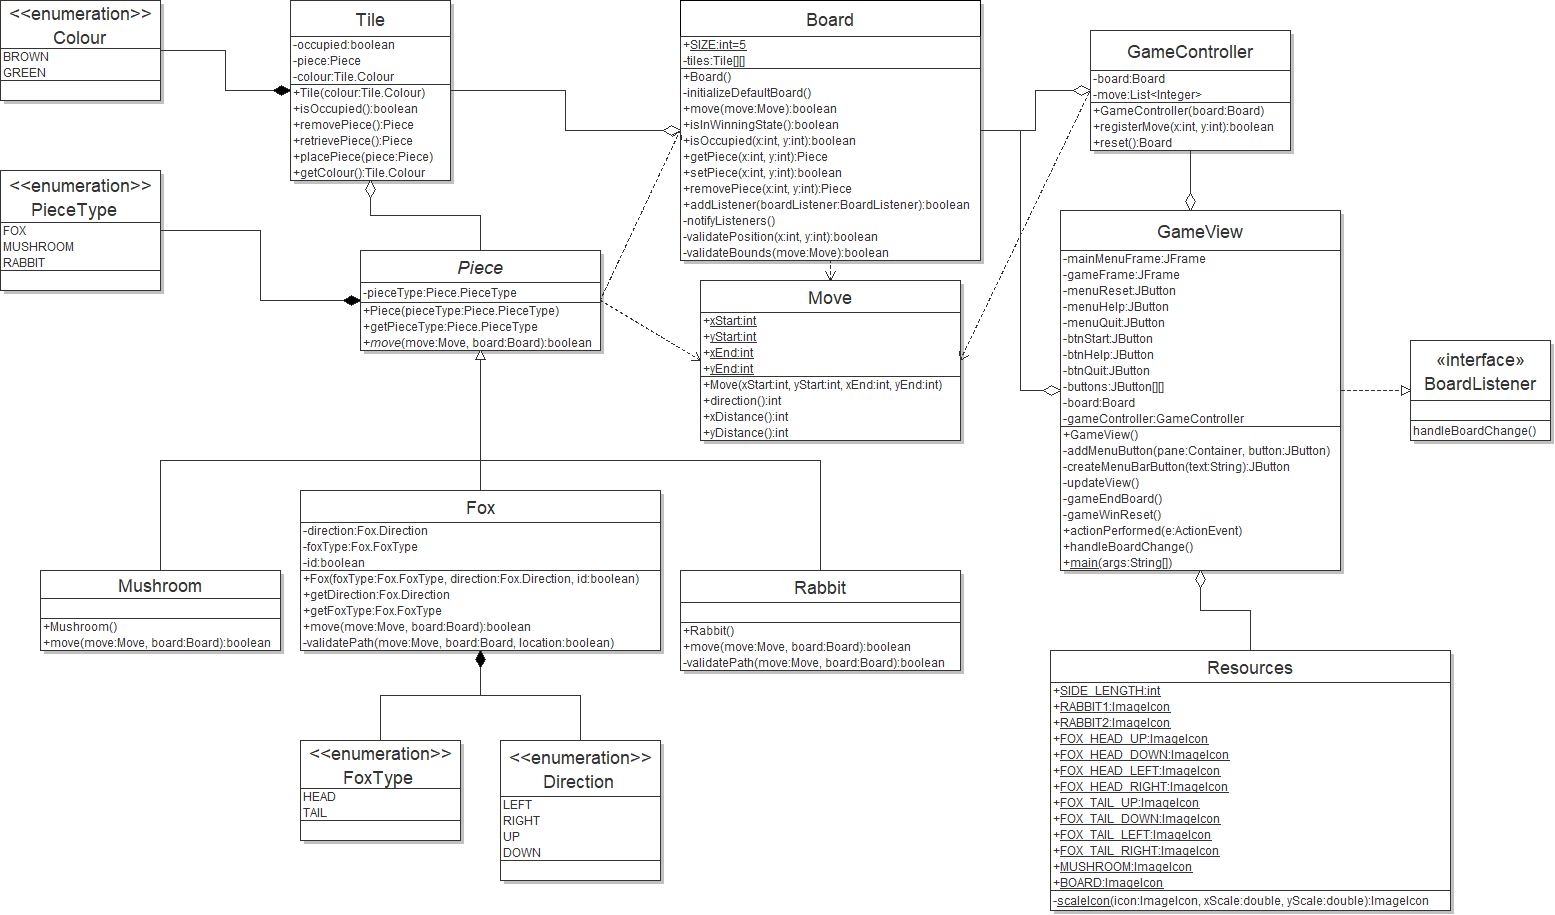
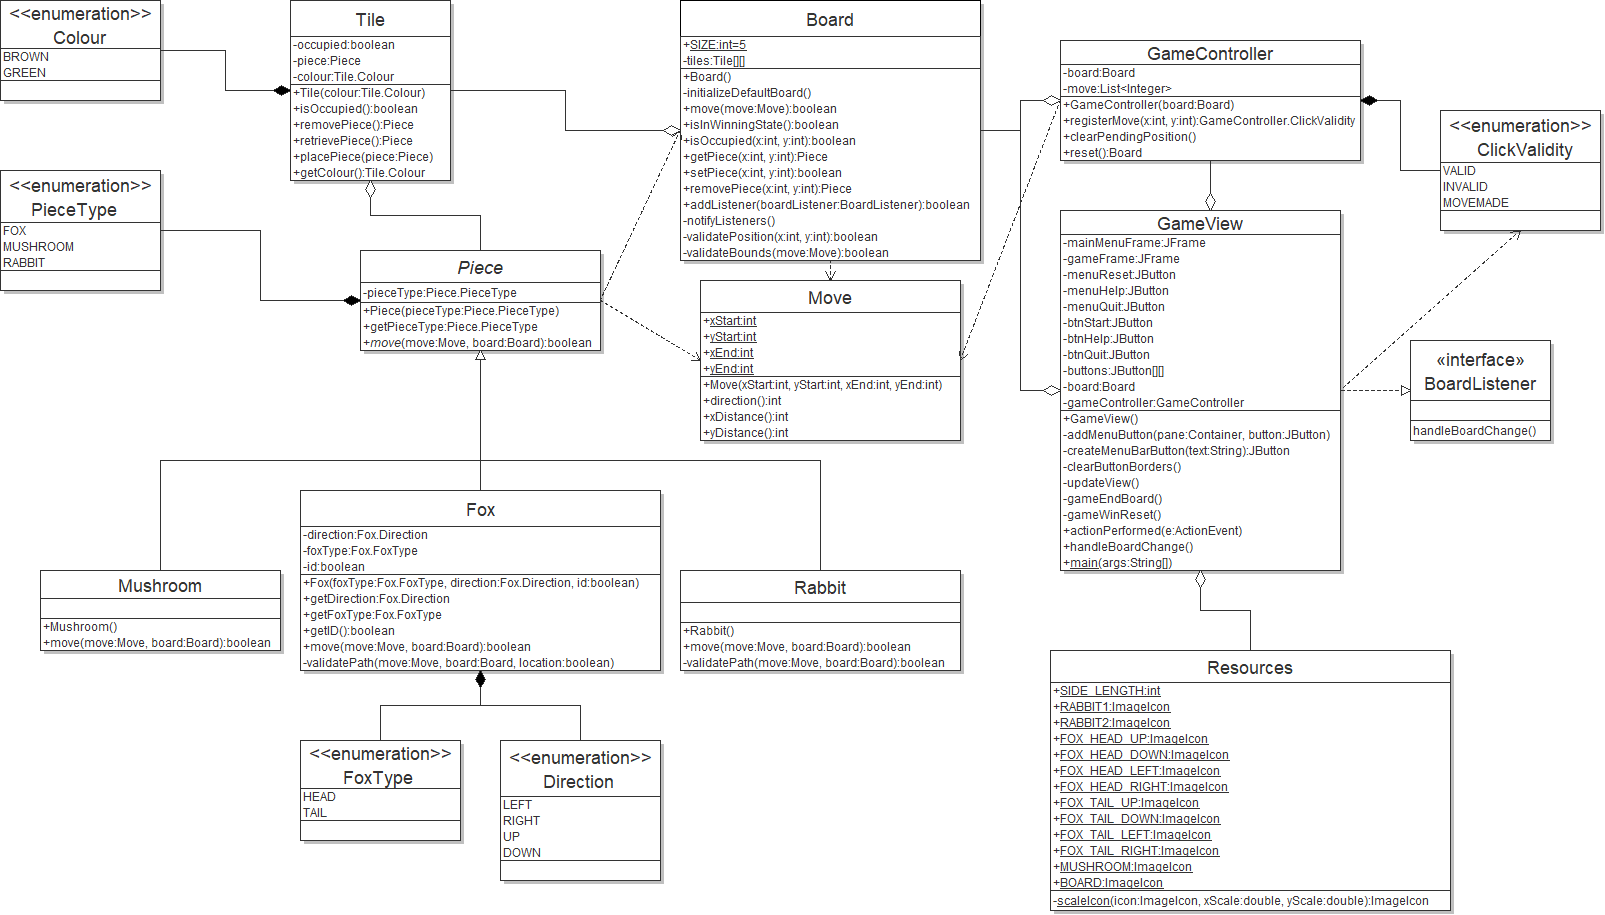
Allow current move to be highlighted

diff --git a/src/main/java/view/GameView.java b/src/main/java/view/GameView.java
@@ -1,6 +1,7 @@
 package view;
 
 import java.awt.BorderLayout;
+import java.awt.Color;
 import java.awt.Component;
 import java.awt.Container;
 import java.awt.Dimension;
@@ -20,8 +21,11 @@ import javax.swing.JOptionPane;
 import javax.swing.KeyStroke;
 import javax.swing.SwingUtilities;
 import javax.swing.UIManager;
+import javax.swing.border.BevelBorder;
+import javax.swing.plaf.ColorUIResource;
 
 import controller.GameController;
+import controller.GameController.ClickValidity;
 import model.Board;
 import model.BoardListener;
 import model.Fox;
@@ -61,13 +65,13 @@ public class GameView implements BoardListener, ActionListener {
 	 * Creates the application GUI.
 	 */
 	public GameView() {
-		// Forces the look and feel of the application to remain consistent across
-		// platforms
+		// Forces the look and feel of the application to remain consistent across platforms
 		try {
 			UIManager.setLookAndFeel(UIManager.getCrossPlatformLookAndFeelClassName());
 		} catch (Exception e) {
 			e.printStackTrace(System.out);
 		}
+		UIManager.getLookAndFeelDefaults().put("Button.focus", new ColorUIResource(new Color(0, 0, 0, 0))); // Removes focus border from all buttons
 
 		/**
 		 * 
@@ -135,8 +139,7 @@ public class GameView implements BoardListener, ActionListener {
 				// Clear button default colours and make it transparent
 				buttons[j][i].setOpaque(false);
 				buttons[j][i].setContentAreaFilled(false);
-				buttons[j][i].setFocusPainted(false);
-				buttons[j][i].setBorderPainted(false);
+				
 				boardLabel.add(buttons[j][i]);
 
 				// Register an anonymous listener on the button which notifies the controller
@@ -144,10 +147,25 @@ public class GameView implements BoardListener, ActionListener {
 				final int x = j;
 				final int y = i;
 				buttons[j][i].addActionListener(e -> {
-					gameController.registerMove(x, y);
+					ClickValidity clickResult = gameController.registerClick(x, y);
+					if (clickResult.equals(ClickValidity.VALID)) {
+						buttons[x][y].setBorder(new BevelBorder(BevelBorder.RAISED, Color.RED, Color.RED));
+					} else if (clickResult.equals(ClickValidity.MOVEMADE)) {
+						clearButtonBorders();
+					}
 				});
 			}
 		}
+
+		// Configure the escape key to cancel the pending move
+		boardLabel.getInputMap(JComponent.WHEN_IN_FOCUSED_WINDOW).put(KeyStroke.getKeyStroke("ESCAPE"), "clear");
+		boardLabel.getActionMap().put("clear", new AbstractAction() {
+			@Override
+			public void actionPerformed(ActionEvent e) {
+				clearButtonBorders();
+				gameController.clearPendingPosition();
+			}
+		});
 
 		updateView();
 
@@ -184,21 +202,28 @@ public class GameView implements BoardListener, ActionListener {
 	 */
 	private JButton createMenuBarButton(String text) {
 		JButton button = new JButton("<html><p style='text-align:center;'>" + text + "</p></html>");
-		button.setFocusPainted(false);
-		button.setOpaque(false);
 		button.setContentAreaFilled(false);
+		button.setOpaque(false);
 		button.setBorderPainted(false);
-		button.getInputMap(JComponent.WHEN_IN_FOCUSED_WINDOW)
-				.put(KeyStroke.getKeyStroke(Character.toLowerCase(text.charAt(0))), text);
+		button.getInputMap(JComponent.WHEN_IN_FOCUSED_WINDOW).put(KeyStroke.getKeyStroke(Character.toLowerCase(text.charAt(0))), text);
 		button.getActionMap().put(text, new AbstractAction() {
-			private static final long serialVersionUID = -3061675265827831267L;
-
 			@Override
 			public void actionPerformed(ActionEvent e) {
 				button.doClick();
 			}
 		});
 		return button;
+	}
+
+	/**
+	 * Clears the bevels on all buttons.
+	 */
+	private void clearButtonBorders() {
+		for (int i = 0; i < Board.SIZE; i++) {
+			for (int j = 0; j < Board.SIZE; j++) {
+				buttons[i][j].setBorder(UIManager.getBorder("Button.border"));
+			}
+		}
 	}
 
 	/**
@@ -279,9 +304,13 @@ public class GameView implements BoardListener, ActionListener {
 	 */
 	@Override
 	public void actionPerformed(ActionEvent e) {
-		if (e.getSource() == btnHelp || e.getSource() == menuHelp) {
-			JOptionPane.showMessageDialog(null, "Start (s): Starts the game. \n" + "Reset (r): Restarts the game. \n"
-					+ "Quit (q): Exits the application", "Help", JOptionPane.INFORMATION_MESSAGE);
+		if (e.getSource() == btnHelp) {
+			JOptionPane.showMessageDialog(null, "Start: Starts the game\n" + "Help: Displays the help menu\n"
+					+ "Quit: Exits the application", "Help", JOptionPane.INFORMATION_MESSAGE);
+		} else if (e.getSource() == menuHelp) {
+			JOptionPane.showMessageDialog(null, "Reset (r): Restarts the game\n"
+					+ "Help (h): Displays the help menu\n" + "Quit (q): Exits the application\n"
+					+ "Escape (ESC): Clears the pending move", "Help", JOptionPane.INFORMATION_MESSAGE);
 		} else if (e.getSource() == btnQuit || e.getSource() == menuQuit) {
 			if (JOptionPane.showConfirmDialog(null, "Are you sure you want to exit?", "Exit Rabbit and Foxes!",
 					JOptionPane.YES_NO_OPTION) == JOptionPane.YES_OPTION)
@@ -304,7 +333,7 @@ public class GameView implements BoardListener, ActionListener {
 		updateView();
 		if (board.isInWinningState()) {
 			gameEndBoard(false);
-			JOptionPane.showMessageDialog(null, "Congrats! You win!");
+			JOptionPane.showMessageDialog(null, "Congrats! You win!", "Game over!", JOptionPane.INFORMATION_MESSAGE);
 			gameWinReset();
 		}
 	}

diff --git a/src/main/java/controller/GameController.java b/src/main/java/controller/GameController.java
@@ -4,6 +4,7 @@ import java.util.ArrayList;
 import java.util.List;
 
 import model.Board;
+import model.Fox;
 import model.Move;
 import model.Mushroom;
 
@@ -21,12 +22,16 @@ public class GameController {
 	private Board board;
 	private List<Integer> move;
 
+	public enum ClickValidity {
+		VALID, INVALID, MOVEMADE
+	}
+
 	/**
-	 * The constructor for this classes uses a board that has been inputed by the
-	 * view(the board listener) so that it can request the model to update it. This
+	 * The constructor for this classes uses a board that has been inputted by the
+	 * view (the board listener) so that it can request the model to update it. This
 	 * will ensure all three components of the MVC will be using the same board.
 	 * 
-	 * @param board
+	 * @param board The Board (model) that this controller should update
 	 */
 	public GameController(Board board) {
 		this.board = board;
@@ -34,7 +39,7 @@ public class GameController {
 	}
 
 	/**
-	 * This method is used to register the move based on the user input. It first
+	 * This method is used to register a click based on the user input. It first
 	 * checks if the button selected by the user contains an object that is not a
 	 * mushroom. If that is satisfied it adds the move to a list. When the second
 	 * move is made the method uses the original move as well as the new move to
@@ -43,19 +48,26 @@ public class GameController {
 	 * 
 	 * @param x - Represents the start of the end x value of the user's move
 	 * @param y - Represents the start of the end y value of the user's move
-	 * @return - Returns True if the move has been successful otherwise will return
-	 *         false
+	 * @return - True if the selected location is valid, false if it is the first move being made on the board or if the selected location is valid
 	 */
-	public boolean registerMove(int x, int y) {
+	public ClickValidity registerClick(int x, int y) {
 		if (move.isEmpty() && board.isOccupied(x, y) && !(board.getPiece(x, y) instanceof Mushroom)) {
 			move.add(x);
 			move.add(y);
-		} else if (!move.isEmpty()) {
-			boolean result = board.move(new Move(move.get(0), move.get(1), x, y));
+			return ClickValidity.VALID;
+		} else if (!move.isEmpty() && (!board.isOccupied(x, y) || (board.getPiece(x, y) instanceof Fox && board.getPiece(move.get(0), move.get(1)) instanceof Fox && ((Fox) board.getPiece(x, y)).getID() == ((Fox) board.getPiece(move.get(0), move.get(1))).getID()))) {
+			board.move(new Move(move.get(0), move.get(1), x, y));
 			move.clear();
-			return result;
+			return ClickValidity.MOVEMADE;
 		}
-		return false;
+		return ClickValidity.INVALID;
+	}
+
+	/**
+	 * Removes any history of a previously stored position.
+	 */
+	public void clearPendingPosition() {
+		move.clear();
 	}
 
 	/**

diff --git a/src/main/java/model/Fox.java b/src/main/java/model/Fox.java
@@ -68,6 +68,13 @@ public class Fox extends Piece {
 		return foxType;
 	}
 
+	/**
+	 * @return The ID of this Fox
+	 */
+	public boolean getID() {
+		return id;
+	}
+
 	@Override
 	public boolean move(Move move, Board board) {
 		if ((direction.equals(Direction.LEFT) || direction.equals(Direction.RIGHT)) && move.direction() != 0
